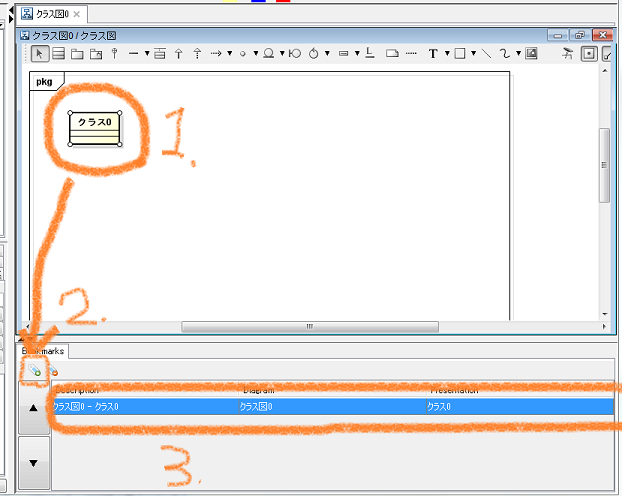
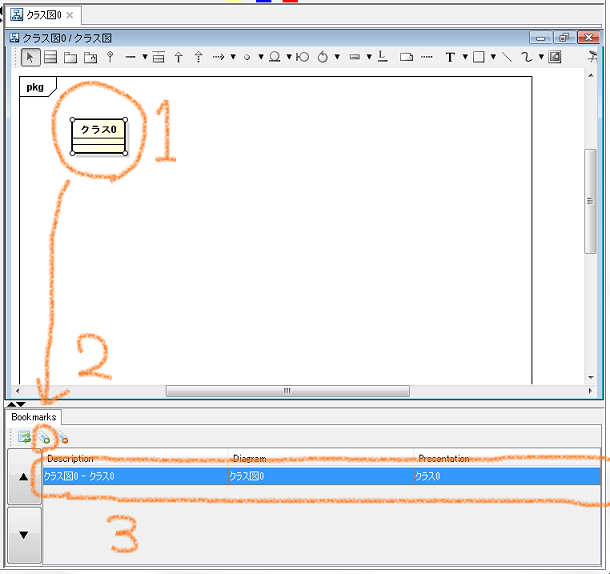
ver 0.9.5用の修正
・一覧表の更新ボタン追加
・Undo/Redoに対応

Changed region(s): [[0.0, 0.0, 1.0, 1.0]]

diff --git a/src/main/java/astah/plugin/BookmarkTabView.java b/src/main/java/astah/plugin/BookmarkTabView.java
@@ -51,6 +51,7 @@ public class BookmarkTabView extends JPanel implements IPluginExtraTabView, Proj
     private JScrollPane scroller;
     private JButton buttonAddBookmarks;
     private JButton buttonRemoveBookmarks;
+    private JButton buttonRefreshTable;
     private JButton buttonSwapUpBookmark;
     private JButton buttonSwapDownBookmark;
 
@@ -80,6 +81,7 @@ public class BookmarkTabView extends JPanel implements IPluginExtraTabView, Proj
 
         {
             JToolBar bar = new JToolBar();
+            bar.add(buttonRefreshTable);
             bar.add(buttonAddBookmarks);
             bar.add(buttonRemoveBookmarks);
 
@@ -107,6 +109,11 @@ public class BookmarkTabView extends JPanel implements IPluginExtraTabView, Proj
         buttonRemoveBookmarks.setIcon(getIcon("images/tag_blue_delete.png"));
         buttonRemoveBookmarks.setToolTipText("Remove bookmark");
         buttonRemoveBookmarks.addActionListener(this);
+
+        buttonRefreshTable = new JButton();
+        buttonRefreshTable.setIcon(getIcon("images/table_refresh.png"));
+        buttonRefreshTable.setToolTipText("Refresh");
+        buttonRefreshTable.addActionListener(this);
 
         buttonSwapUpBookmark = new JButton("▲");
         buttonSwapUpBookmark.addActionListener(this);
@@ -218,6 +225,16 @@ public class BookmarkTabView extends JPanel implements IPluginExtraTabView, Proj
         controler.removeBookmark(models);
     }
 
+    private void RefreshTable() {
+        List models = new ArrayList();
+        for (int i = 0; i < table.getRowCount(); i++) {
+            models.add(this.tableModel.getValueAt(i, COLUMN_MODEL));
+        }
+
+        BookmarkControler controler = new BookmarkControler(this);
+        controler.updateBookmarksWithoutDescription(models);
+    }
+
     private void updateBookmark() {
         BookmarkControler controler = new BookmarkControler(this);
         Object selectedBookmark = getSelectedBookmark();
@@ -309,6 +326,10 @@ public class BookmarkTabView extends JPanel implements IPluginExtraTabView, Proj
         this.removeBookmarks();
     }
 
+    private void clickButtonRefreshTable() {
+        this.RefreshTable();
+    }
+
     private void clickButtonSwapUp() {
         this.swapBookmark(false);
     }
@@ -375,6 +396,8 @@ public class BookmarkTabView extends JPanel implements IPluginExtraTabView, Proj
      */
     @Override
     public void projectChanged(ProjectEvent arg0) {
+        BookmarkControler controler = new BookmarkControler(this);
+        controler.syncBookmarks();
     }
 
     @Override
@@ -420,6 +443,8 @@ public class BookmarkTabView extends JPanel implements IPluginExtraTabView, Proj
             this.clickButtonAddBookmarks();
         } else if (e.getSource().equals(buttonRemoveBookmarks)) {
             this.clickButtonRemoveBookmarks();
+        } else if (e.getSource().equals(buttonRefreshTable)) {
+            this.clickButtonRefreshTable();
         } else if (e.getSource().equals(buttonSwapUpBookmark)) {
             this.clickButtonSwapUp();
         } else if (e.getSource().equals(buttonSwapDownBookmark)) {

diff --git a/src/main/java/astah/plugin/AstahAccessor.java b/src/main/java/astah/plugin/AstahAccessor.java
@@ -94,8 +94,31 @@ public class AstahAccessor {
 
     public boolean selectPresentation(String[] classIdList) {
 
+        try {
+            ProjectAccessor projectAccessor = ProjectAccessorFactory.getProjectAccessor();
+            IPresentation[] selectPresentation = getPresentation(classIdList);
+
+            if (selectPresentation != null && selectPresentation.length > 0) {
+                IDiagramViewManager dvm = projectAccessor.getViewManager().getDiagramViewManager();
+                dvm.open(selectPresentation[0].getDiagram());
+                dvm.showInDiagramEditor(selectPresentation[0]);
+                dvm.select(selectPresentation);
+            } else {
+                // not exist presentation
+                return false;
+            }
+
+        } catch (Exception exp) {
+            exp.printStackTrace();
+        }
+
+        return true;
+    }
+
+    public IPresentation[] getPresentation(String[] classIdList) {
+
         if (classIdList == null) {
-            return false;
+            return null;
         }
 
         final HashSet<String> presentationMap = new HashSet<String>();
@@ -113,7 +136,7 @@ public class AstahAccessor {
                     boolean ret = false;
                     try {
                         for (IPresentation pre : arg0.getPresentations()) {
-                            if (presentationMap.contains(pre.getID())) {
+                            if (presentationMap.contains(pre.getID()) && !selectPresentation.contains(pre)) {
                                 selectPresentation.add(pre);
                                 ret = true;
                                 break;
@@ -126,21 +149,16 @@ public class AstahAccessor {
                 }
             });
 
-            if (selectPresentation.size() > 0) {
-                IDiagramViewManager dvm = projectAccessor.getViewManager().getDiagramViewManager();
-                dvm.open(selectPresentation.get(0).getDiagram());
-                dvm.showInDiagramEditor(selectPresentation.get(0));
-                dvm.select(selectPresentation.toArray(new IPresentation[0]));
-            } else {
+            if (selectPresentation.size() == 0) {
                 // not exist presentation
-                return false;
+                return null;
             }
 
         } catch (Exception exp) {
             exp.printStackTrace();
+            return null;
         }
 
-        return true;
+        return selectPresentation.toArray(new IPresentation[0]);
     }
-
 }

diff --git a/src/main/java/astah/plugin/BookmarkControler.java b/src/main/java/astah/plugin/BookmarkControler.java
@@ -98,4 +98,58 @@ public class BookmarkControler {
         BookmarkManager.getInstance().removeAllBookmarkModels();
         view.update();
     }
+
+    public void updateBookmarksWithoutDescription(List<BookmarkModel> models) {
+        if (models == null || models.size() == 0) {
+            return;
+        }
+
+        AstahAccessor astah = new AstahAccessor();
+        BookmarkManager manager = BookmarkManager.getInstance();
+        boolean isAutoSave = manager.isAutoSave();
+
+        try {
+            if (isAutoSave) {
+                manager.setAutoSave(false);
+            }
+            
+            for (BookmarkModel model : models) {
+                String[] classId = getClassIdList(model);
+    
+                if (classId == null || classId.length == 0) {
+                    manager.removeBookmark(model);
+                    continue;
+                }
+    
+                IPresentation[] presentations = astah.getPresentation(classId);
+                if (presentations == null || presentations.length == 0) {
+                    manager.removeBookmark(model);
+                    continue;
+                }
+    
+                BookmarkModel modelNow = createBookmarkModel(presentations);
+                manager.updateBookmark(model, null, modelNow.getDiagramName(),
+                        modelNow.getPresentationsName(), modelNow.getClassIdList());
+            }
+    
+            if (isAutoSave) {
+                manager.saveToProject();
+                manager.setAutoSave(isAutoSave);
+            }
+            
+        } catch (Exception exp) {
+            exp.printStackTrace();
+        } finally {
+            manager.setAutoSave(isAutoSave);
+        }
+
+        view.update();
+    }
+
+    public void syncBookmarks() {
+        BookmarkManager manager = BookmarkManager.getInstance();
+        if (manager.syncBookmarks()) {
+            view.update();
+        }
+    }
 }

diff --git a/src/main/java/astah/plugin/BookmarkManager.java b/src/main/java/astah/plugin/BookmarkManager.java
@@ -31,6 +31,10 @@ public class BookmarkManager {
         this.isAutoSave = isAutoSave;
     }
 
+    public boolean isAutoSave() {
+        return isAutoSave;
+    }
+
     public List<BookmarkModel> getBookmarkModels() {
         return Collections.unmodifiableList(models);
     }
@@ -116,6 +120,21 @@ public class BookmarkManager {
         if (isAutoSave) {
             saveToProject();
         }
+    }
+
+    public boolean syncBookmarks() {
+        AstahAccessor tagAccesser = new AstahAccessor();
+        JSONSaveDataConverter converter = new JSONSaveDataConverter();
+
+        String tagValue = tagAccesser.readTaggedValue(TAG_KEY_FOR_SAVE_PROJECT);
+        String json = converter.convertToJSON(models);
+
+        if (!tagValue.equals(json)) {
+            loadFromProject();
+            return true;
+        }
+
+        return false;
     }
 
 }

diff --git a/README.md b/README.md
@@ -3,7 +3,7 @@ Bookmarksプラグイン
 
 Version
 ----------------
-0.9.4
+0.9.5
 
 Available for
 ----------------
@@ -35,6 +35,7 @@ Add bookmark」をクリックすると一覧に追加されます。
 その他：
 * Descriptionを任意に編集することができます。ダブルクリック、または、選択後Enterキーにて編集を行います。
 * 左部「▲」「▼」ボタンにて順序を入れ替えることができます。また、Ctrl＋↑キー、Ctrl＋↓キーでも同様な操作となります。
+* 「![Sample Image](https://github.com/kenkenji/astah-bookmarks-plugin/raw/master/doc/screenshots/table_refresh.png)Refresh」ボタンをクリックすると一覧表を更新します。図の要素が削除されている場合は、一覧からも削除されます。[[BR]]
 
 License
 ---------------
